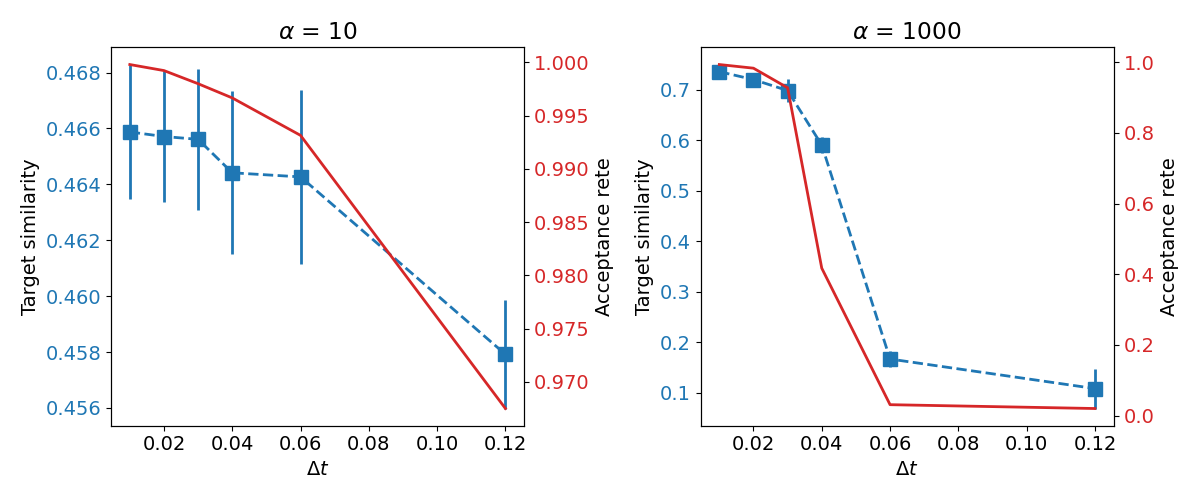
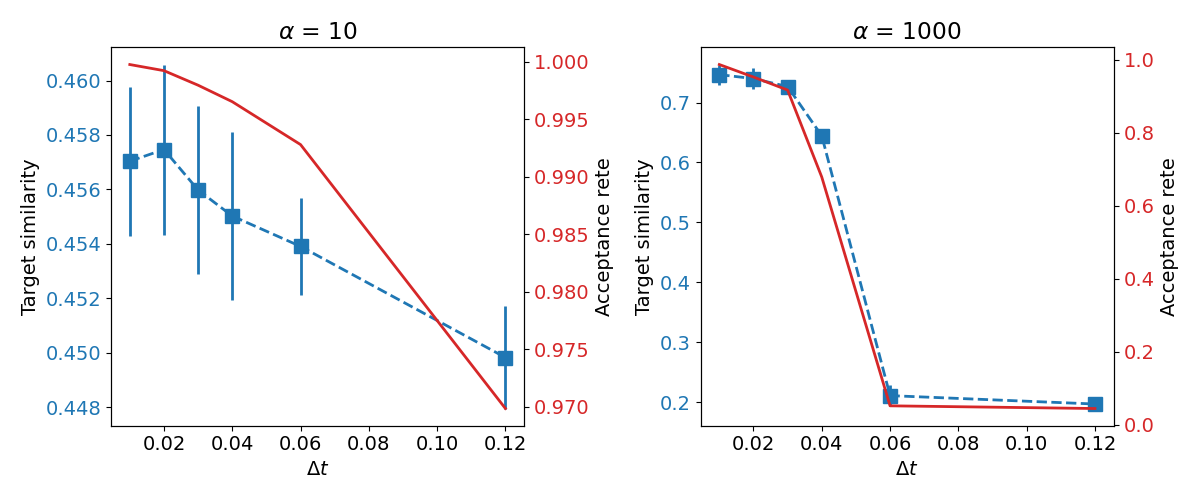
Corrected last typo in sampler and apapted parameter exploration part + reformulated continutation/accentuation of effect with dimension.

diff --git a/report/report.tex b/report/report.tex
@@ -122,29 +122,37 @@
 					\label{fig:U-pot-alpha=10}
 			\end{wrapfigure}
 			Before exploring the impact of the different parameters of the HMC algorithm, we first present the potential energy landscape associated to the algorithm for this specific problem. The landscape is presented in figure \ref{fig:U-pot-alpha=10}. 
-			The landscape has polar symmetry, meaning the trajectories will be some sort of isotropic oscillations. It has global minima at a radius of $\sqrt{0.25}=0.5$ away from the centre and a local maxima at the origin. The only difference in the landscape for $\alpha=1000$ w.r.t. the $\alpha=10$ one is the scale of the potential. This means that the $\alpha=1000$ will give rise to stronger potential forces, which translates the fact that the density is more localised. 
+			This landscape has polar symmetry, and has global minima at a radius of $\sqrt{0.25}=0.5$ away from the centre and a local maxima at the origin. 
+
+			The only difference in the landscape for $\alpha=1000$ w.r.t. $\alpha=10$ is the scale of the potential. This means that the $\alpha=1000$ will give rise to stronger potential forces, which translates the fact that the density is more localised. 
+
+			The first parameter we explore is the mass. We split this in terms of the mass scale and the mass isotropy. We do not consider the impact of off-diagonal terms as this would make the report too long and was not suggested in the statement.
 			\subsection{Impact of Mass Scale}
-			The first parameter we explore is that of the mass. We split this in terms of the mass scale and the mass symmetry. We do not consider the impact of off-diagonal terms as this would make the report too long and was not suggested in the statement. 
-
-			What we expect to see is that the mass scale will control the speed of the dynamics (by affecting the particle's inertia).
-			The similarities associated to 3000 samples for the different mass scales are presented in \ref{fig:mass-scan}.
-			\begin{figure}[htb]
-				\centering
-					\vspace{0em}
-					\includegraphics[width=0.95\textwidth]{mass_scan}
-					\caption{Similarity as a function of HMC mass scale for considered values of $\alpha$.}
-					\label{fig:mass-scan}
-			\end{figure}
-			In this case, both plots look qualitatively similar : the similarity admits a global maxima at some value of the mass scale, and worsen on both sides of it. The acceptance rate on the other hand stays really close to $1$, probably due to the $\Delta t$ being quite generosly choosen. The decrease in performance is therefore due to the fact that the particle explores less well the space. We can easily make sense of it for higher values of the mass, as the particle will be more inert and therefore less likely to explore the space. For lower values of the mass, the particle will be more reactive to forces, so the decrease in exploration can seem counter-intuitive. We could however immagine that if the mass is too low, the particle will be more likely to oscillate around the minima, and so not explore well other parts of the domain.
+			%meaning the trajectories will be some sort of isotropic oscillations.	
+			The impact of mass scale is readily understood by looking back at the formulas defining the algorithm. %\ref{eq}		
 			
-			There are a couple of difference worth noting between the $\alpha=10$ and $\alpha=1000$ cases. The first is that the second case has its peak around a higher value of the mass. This is consistent with the fact that the forces are stronger, and therefore it requires more inertia to explore well the space (when integration time is fixed). 
-			% (ASK AUDE IF MAKES SENSE). 
-			The second difference is that the $\alpha=1000$ case seems to suffer more from the mass scale being too large. The reason is probably similar, given in addition that the characteristic time is shorter for this case (and therefore the same absolute change in travelled distance is more important).
-			\subsection{Impact of Mass Symmetry}
-			What we expect to see is that mass symmetry will control the isotropy/anisotropy of inertia. Indeed, if masses are different, the particle will have different inertia in different directions, which will affect the shape of the trajectories. In some direction the particle will react more quickly to forces, while in the other it will be more inert.
-			In our case, the target distribution (and therefore potential landscape) is isotropic. We would therefore expect that better results are obtained with symmetric masses. If the main axis of motion were not to be orthogonal, we would even expect to find an advantage in properly choosing (non-zero) off-diagonal terms too. 
+			Firstly, we interprete what it means for $p$ to scale with $m$. Given that the potential does not depend on $m$, the $\Delta p$ applied at each integration step are independent of $m$. This implies that it will take longer for the particle to react to the potential landscape. Physically, this is what we call the particle's inertia.
 
-			We tried to gain insight into this with help of \ref{fig:mass-sym}, in which the similarities associated to 3000 samples for both symmetric and asymmetric masses are represented.
+			More surprisingly, we can see that altough the mass appears explicitely in the expression for cinetical energy $K=pM^{-1}p$, due to $p\sim\mathcal{N}(0,M)$, we have $K\sim\mathcal{N}(0,I)$. From this we deduce that mass does not affect the hights reached in the potential well (if we integrate sufficiently long). 
+			It does however affect the size of the steps that are taken given that $M^{-1}p\sim\mathcal{N}(0,M^{-1})$, i.e. it scales (up or down) the initial velocity. 
+
+			Given we can correct for such changes by adapting the integration time and step, it is more interesting to move to analysing how the algorith depends on the isotropy of the mass, which is the goal of the next section. 
+			%The similarities associated to 3000 samples for the different mass scales are presented in \ref{fig:mass-scan}.
+			%\begin{figure}[htb]
+			%	\centering
+			%		\vspace{0em}
+			%		\includegraphics[width=0.95\textwidth]{mass_scan}
+			%		\caption{Similarity as a function of HMC mass scale for considered values of $\alpha$.}
+			%		\label{fig:mass-scan}
+			%\end{figure}
+			%In this case, both plots look qualitatively similar : the similarity admits a global maxima at some value of the mass scale, and worsen on both sides of it. The acceptance rate on the other hand stays really close to $1$, probably due to the $\Delta t$ being quite generosly choosen. The decrease in performance is therefore due to the fact that the particle explores less well the space. We can easily make sense of it for higher values of the mass, as the particle will be more inert and therefore less likely to explore the space. For lower values of the mass, the particle will be more reactive to forces, so the decrease in exploration can seem counter-intuitive. We could however immagine that if the mass is too low, the particle will be more likely to oscillate around the minima, and so not explore well other parts of the domain.
+			\subsection{Impact of Mass Isotropy}
+			The mass isotropy/anisotropy specifies relative velocities and inertias among the directions. Anisotropic mass therefore allows a particle to move quicker and react more quickly to forces in some directions, while doing so slower in others. We expect this to be useful to improve exploration for example when the potential does not have radial symmetry around a minimum for example (but is instead elliptic). 
+
+			In our case, the target distribution is radially symmetric around the origin, but not around its minima. We could therefore expect that better results could be obtained by playing with anysotropic masses. One should however take into account that the preculiar shape of our distribution makes it hard to be confident in this statement.
+			Indeed, due to the donought shape of the potential, much of the momentum is actually efficiently converted between directions. 
+
+			We tried gaining insight with help of \ref{fig:mass-sym} and similar figures, in which the similarities associated to 2000 samples for both symmetric and asymmetric masses are represented.
 			\begin{figure}[htb]
 				\centering
 					\vspace{0em}
@@ -152,22 +160,19 @@
 					\caption{Similarity for HMC samplers with asymmetric and symmetric masses for $\alpha=1000$.}
 					\label{fig:mass-sym}
 			\end{figure}
-			A first look at the plot shows that the similarity is slightly better for the symmetric mass case. 
-			More precisely in our case, the plot associated to anisotropic masses reveils that left and right areas of the distributions are sampled more than the top and bottom ones. This seems to be a consequence of the fact that in that example $m_1>m_2$ (as the particle's inertia is stronger along the horizontal axis). 
+			Looking at the plot, we see that the similarity is not impacted by the anysotropy. One can wonder if the result would change by making the anisotropy more severe. In this case however, it would be hard to disentangle the contributions since for really different masses, $t$ and $\Delta t$ would be of different quality.  
 			\subsubsection{Impact of Integration Time}
 			The next parameter we explore is integration time. For this parameter, we expect the optimal value to be the one that allows the sampler to explore the whole space, without being excessively long (as it would slow down sampling).
-			%The similarities associated to 3000 samples for the different integration times are presented in figure \ref{fig:t-scan}.
-			%\begin{figure}[htb]
-			%	\centering
-			%		\vspace{0em}
-			%		\includegraphics[width=0.95\textwidth]{t_scan}
-			%		\caption{Similarity as a function of HMC integration time for considered values of $\alpha$.}
-			%		\label{fig:t-scan}
-			%\end{figure}
-			This was indeed the observed behaviour, though the plots are not reported due to space constraints, and there being little to comment on. 
-			In both $\alpha=10$ and $\alpha=1000$ cases similarity increases as a function of $t$ untill a plateau around $t=9\times 10^{-2}$ is reached. 
-			%Looking more closely, it seems that the curve is sligthly more noisy for the $\alpha=1000$ case.
-			%Curiously, we observe a steady decrease in acceptance rate for the $\alpha=10$ case and something that looks like a dampt oscillation for the $\alpha=1000$ one. This could be due to the characteristic time of oscillation being of the same order as the time differences considered. 
+			The similarities associated to 3000 samples for the different integration times are presented in figure \ref{fig:t-scan}.
+			\begin{figure}[htb]
+				\centering
+					\vspace{0em}
+					\includegraphics[width=0.95\textwidth]{t_scan}
+					\caption{Similarity as a function of HMC integration time for considered values of $\alpha$.}
+					\label{fig:t-scan}
+			\end{figure}
+			%This was indeed the observed behaviour, though the plots are not reported due to space constraints, and there being little to comment on. 
+			In both $\alpha=10$ and $\alpha=1000$ cases similarity increases as a function of $t$ untill a plateau around $t=9\times 10^{-2}$ is reached. This independence (or weak dependence) on $\alpha$ can be surprising at first given that the caracteristic time of radial oscillation clearly depends on $\alpha$. In both $\alpha$ cases however, the bottle neck for two sample to be distant is not moving in the radial direction, but rather, in the one ortogonal to it (given that both times the radius of the disk is larger than its width).   
 			\subsection{Impact of $\Delta t$}
 			We now turn to analysing the impact of the time step. This parameter is important as it controls the accuracy of the integration. The goal is to find the largest time step that allows for accurate integration, as this will speed up the sampler while allowing it to accept proposals frequently.
 
@@ -183,10 +188,10 @@
 			\subsection{Comment on interractions between parameters}
 			In the previous sections, the analysis of HMC's parameters was limited to a one-factor-at-a-time study. This was motivated by the non-exhaustive character of the report and the fact that meaningfull insights were associated to these longitudinal analyses. 
 			
-			In reality however, each parameter of course does not act in a vacume. More specifically, qualitative explorations of simulations reveiled for example that increasing mass slightly, required longer integration times for space-exploration to occur, and often allowed for a larger $\Delta t$ to be used. The symmetric finding was found for lowering mass slightly. This has practical implications in finding global optimal choice of parameters. Indeed, when grid search for the parameters is untractable (i.e. in high dimensions), these interractions between the parameters make it hard to find globally optimal values. Our intuition is that in these cases one can proceed in the following way to find ``good enough'' parameters ``easily'' : 
+			In reality however, each parameter of course does not act in a vacume. For example, increasing mass, requires longer integration times for good space-exploration to occur, and allows for larger $\Delta t$ to be used. This has practical implications in finding global optimal choice of parameters. Indeed, when grid search for the parameters is untractable (i.e. in high dimensions), these interractions between the parameters make it hard to find globally optimal values. Our intuition is that in these cases one can proceed in the following way to find ``good enough'' parameters ``easily'' : 
 			\begin{enumerate}
-				\item use assumptions on the potential to choose structure for the mass (isotropy, anysotropy etc.) and possibly do the same to derive a characteristic time for the oscillation,
-				\item select the locally optimal mass scale after having set  the time and $\Delta t$ generously : the time larger than optimal (guaranteeing good mixing) and $\Delta t$ smaller than optimal (granting precise integration),
+				\item estimate characteristic times for the oscillations from the expression for the potential (analytically or  numerically if not tractable),
+				\item use assumptions on the potential to fix the structure for the mass (isotropic vs anisotropic) and select the locally optimal mass after having set $t$ and $\Delta t$ generously : $t$ larger than optimal (guaranteeing good mixing) and $\Delta t$ smaller than optimal (granting precise integration),
 				\item with the new mass matrix, select the locally optimal integration time (shortest one preserving good enough mixing),
 				\item finally select the locally optimal $\Delta t$ (the biggest for which the acceptance rate is good enough).
 			\end{enumerate}
@@ -204,7 +209,7 @@
 				\caption{Similarity as a function of sample-size for RWMC and HMC samplers and considered values of $\alpha$. The sample-size represented on the x axis is that associated to the HMC sampler. The associated RWMC sample-size is obtained by matching the number of function evalutations of the HMC sampler.}
 				\label{fig:nsamples-evolution}
 		\end{figure}
-		In general, the same qualitative behaviour is observed for all algorithms : the similarity quickly increases at the start but then sees deminishing returns characteristic of concave functions. In both cases RWMC outperforms HMC in terms of similarity. The difference is slightly larger in the $\alpha=10$ case, again, due to how simple the target function is. For $\alpha=1000$, the computational overhead (of a factor 7) is for a big part compensated. We can easily imagine this trend continuing and accentuating with the dimension of the distribution, and therefore HMC vastly outperforming RWMC in these settings.
+		In general, the same qualitative behaviour is observed for all algorithms : the similarity quickly increases at the start but then sees deminishing returns characteristic of concave functions. In both cases RWMC outperforms HMC in terms of similarity. The difference is slightly larger in the $\alpha=10$ case, again, due to how simple the target function is. For $\alpha=1000$, the computational overhead (of a factor 7) is for a big part compensated. We can easily imagine this trend continuing as a function of distribution complexity. We also expect it to accentuate when the dimension of the distribution is increased, due to the curse of dimensionality. 
 		\subsubsection{Effective Sample-Size}
 		\begin{figure}[htb]
 			\begin{subfigure}[b]{\textwidth}

diff --git a/code/generate_plots.py b/code/generate_plots.py
@@ -46,8 +46,10 @@ def plot_U_pot( alpha ):
     return
 
 def fig_from_param( function, param, x_label, ax=None ): 
+    ax_none = None
     if ax is None:
         param_fig, ax = plt.subplots(1, 2, figsize=(12, 5))
+        ax_none = True
     function(f'{config_dir}{param}_alpha=10{yaml_}', ax=ax[0])
     function(f'{config_dir}{param}{yaml_}', ax=ax[1])
     if x_label != None:
@@ -55,23 +57,14 @@ def fig_from_param( function, param, x_label, ax=None ):
         ax[1].set_xlabel(x_label)
     ax[0].set_title(r'$\alpha$ = 10')
     ax[1].set_title(r'$\alpha$ = 1000')
-    if ax is None:
+    if ax_none :
         filename = f'{fig_dir}{param}{png}'
         plt.savefig( filename )
     print(f'{param} figure done !')
 
-
+fig_from_param( scan_main, 'mass_scan', '$m=m_1=m_2$' )
 fig_from_param( scan_main, 't_scan', '$t$' )
 fig_from_param( scan_main, 'dt_scan', r'$\Delta t$' )
-fig_from_param( scan_main, 'rwmc_scan', None )
-fig_from_param( nsample_main, 'nsamples_evolution', 'Number of samples' )
-param_fig, ax = plt.subplots(1, 2, figsize=(12, 5))
-param = 'mass_scan'
-fig_from_param( scan_main, param, '$m=m_1=m_2$', ax=ax )
-ax[0].set_xscale('log')
-ax[1].set_xscale('log')
-filename = f'{fig_dir}{param}{png}'
-plt.savefig( filename )
 
 param_fig, ax = plt.subplots(1, 2, figsize=(11, 4.5))
 param = 'mass_sym'
@@ -90,19 +83,19 @@ ax[1].set_title( r'$'+m2_lab+r'$'+f'\n{title1}' )
 plt.savefig( f'{fig_dir}{param}{png}' )
 print(f'{param} figure done !')
 
-plot_U_pot( 10 )
-plot_U_pot( 1000 )
+if False :
 
-param_fig, ax = plt.subplots(1, 2, figsize=(11, 4.5))
-_, __ = test_example( 10, ax=ax[0] )
-_, __ = test_example( 1000, ax=ax[1] )
-ax[0].set_title(r'$\alpha$ = 10')
-ax[1].set_title(r'$\alpha$ = 1000')
-plt.savefig(f'../figures/alpha_density.png')
+    fig_from_param( scan_main, 'rwmc_scan', None )
+    fig_from_param( nsample_main, 'nsamples_evolution', 'Number of samples' )
 
-# could also call densitiy plots
-#
-#plt.show()
+  
 
+    plot_U_pot( 10 )
+    plot_U_pot( 1000 )
 
-
+    param_fig, ax = plt.subplots(1, 2, figsize=(11, 4.5))
+    _, __ = test_example( 10, ax=ax[0] )
+    _, __ = test_example( 1000, ax=ax[1] )
+    ax[0].set_title(r'$\alpha$ = 10')
+    ax[1].set_title(r'$\alpha$ = 1000')
+    plt.savefig(f'../figures/alpha_density.png')

diff --git a/code/sampler.py b/code/sampler.py
@@ -134,7 +134,7 @@ class HamiltonianMCMC(MCMCSampler):
         '''
         Proposes a new state using Hamiltonian dynamics.
         '''
-        momentum = self.mass * self.rng.normal(0, 1, size=current_state.shape)
+        momentum = np.sqrt(self.mass) * self.rng.normal(0, 1, size=current_state.shape)
         proposed_state = current_state.copy()
         proposed_momentum = momentum.copy()
         
